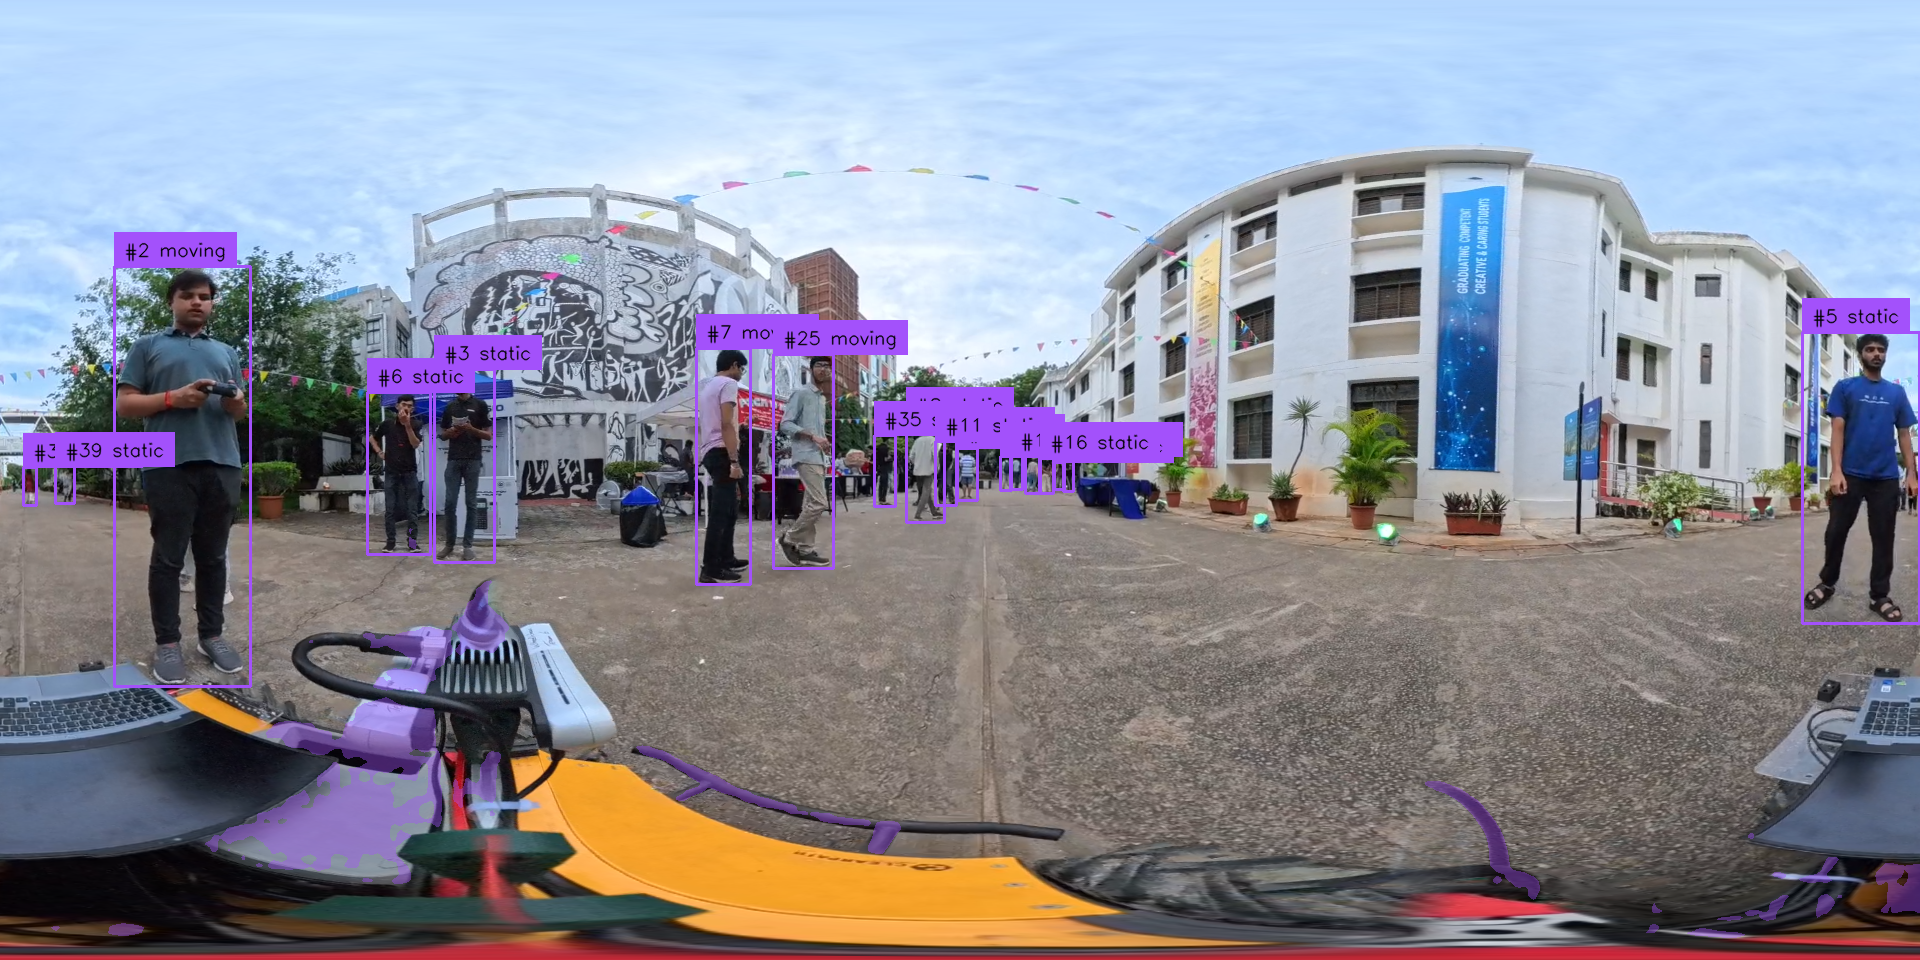
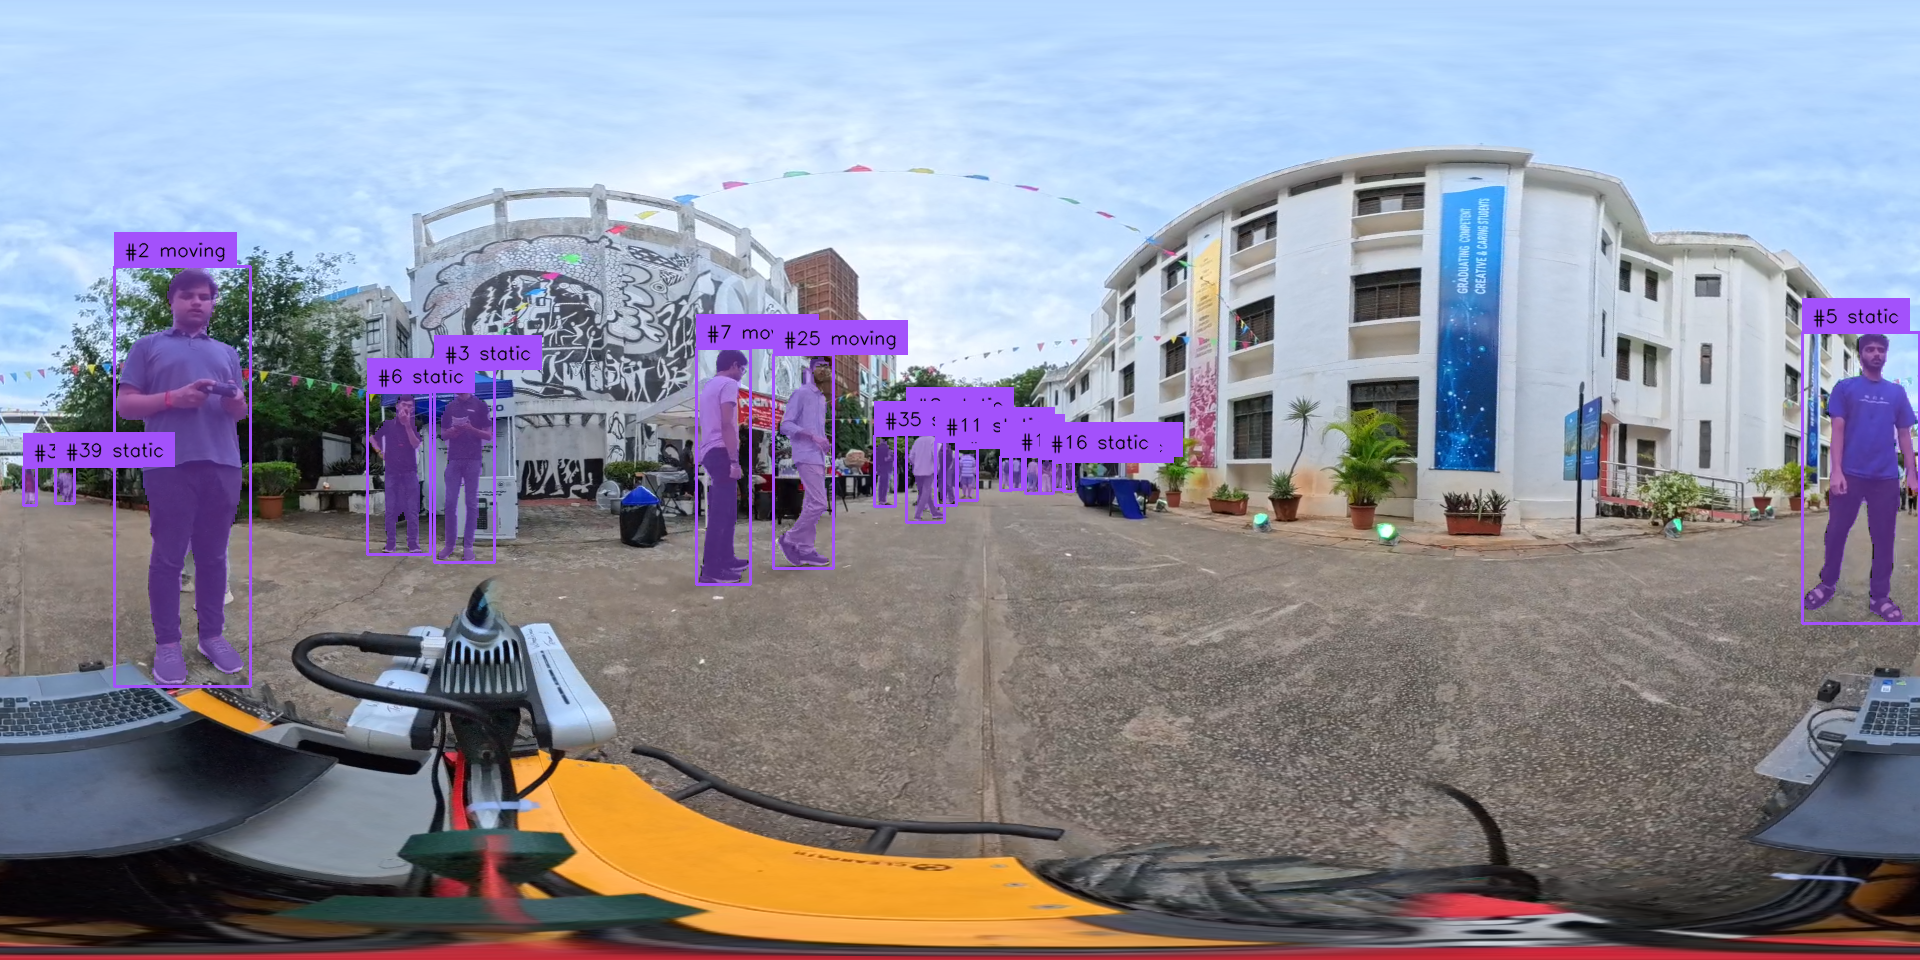
[DOCS]: updated with GPU suggestions

diff --git a/README.md b/README.md
@@ -326,6 +326,7 @@ Login Succeeded
 - ensure that the weight folder has all the model checkpoints which can be setup using `weights/setup.sh`.
 - New code with `ByteTrack` with `SAHI+NMS` integration for better tracking has been added
 - Code for automated annotation is present in `advanced_annotater.py` which will generate `labels` of  `people.static` or `people.moving` in the form of json files with bounding box in `psr` format 
+- For running `advanced_annotater.py` I would highly suggest to use a GPU with atleast 16 gb vram like I am using `Nvidia A4000` for good quality of detection and segmentation although in the config I do provide the option of using CPU
 ```bash
 # setup
 pip install --upgrade ultralytics sahi supervision segment-anything-hq opencv-python numpy pyyaml
@@ -339,7 +340,7 @@ python3 track_distant_people_ByteTrack.py --input_dir input_frames --output_dir 
 # config for this code is present in config/config.yml
 python advanced_annotator.py --data /path/to/your/frames --output_dir /path/to/your/results --config /path/to/your/config
 ```
-![alt text](/assets/000030.png)
+![alt text](/assets/000058.png)
 
 ## Acknowledgment
 - I have used [temporal-point-transformer](https://github.com/LiDAR-Motion-Segmentation/temporal-point-transformer) model to train and evaluate on.
